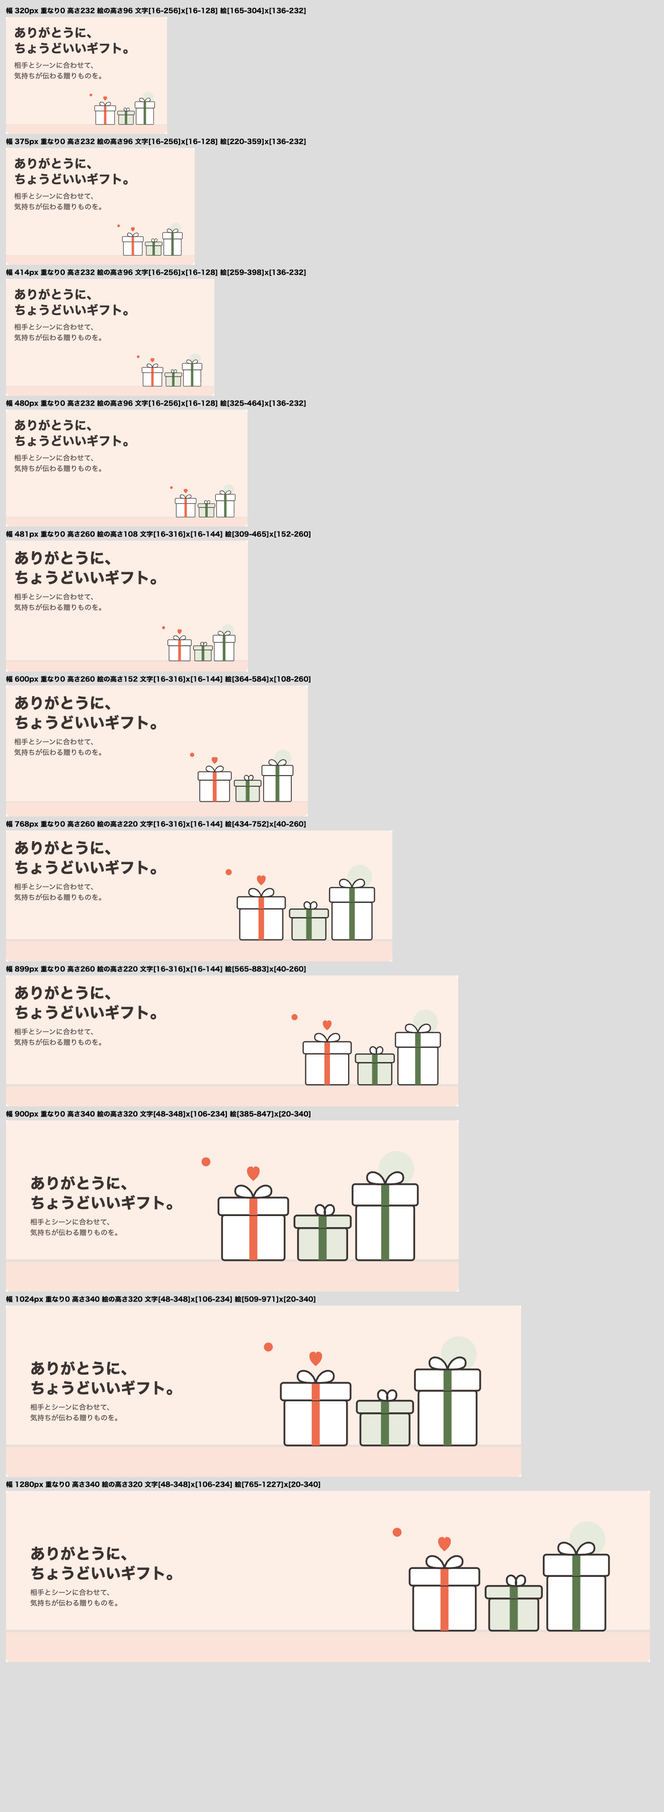
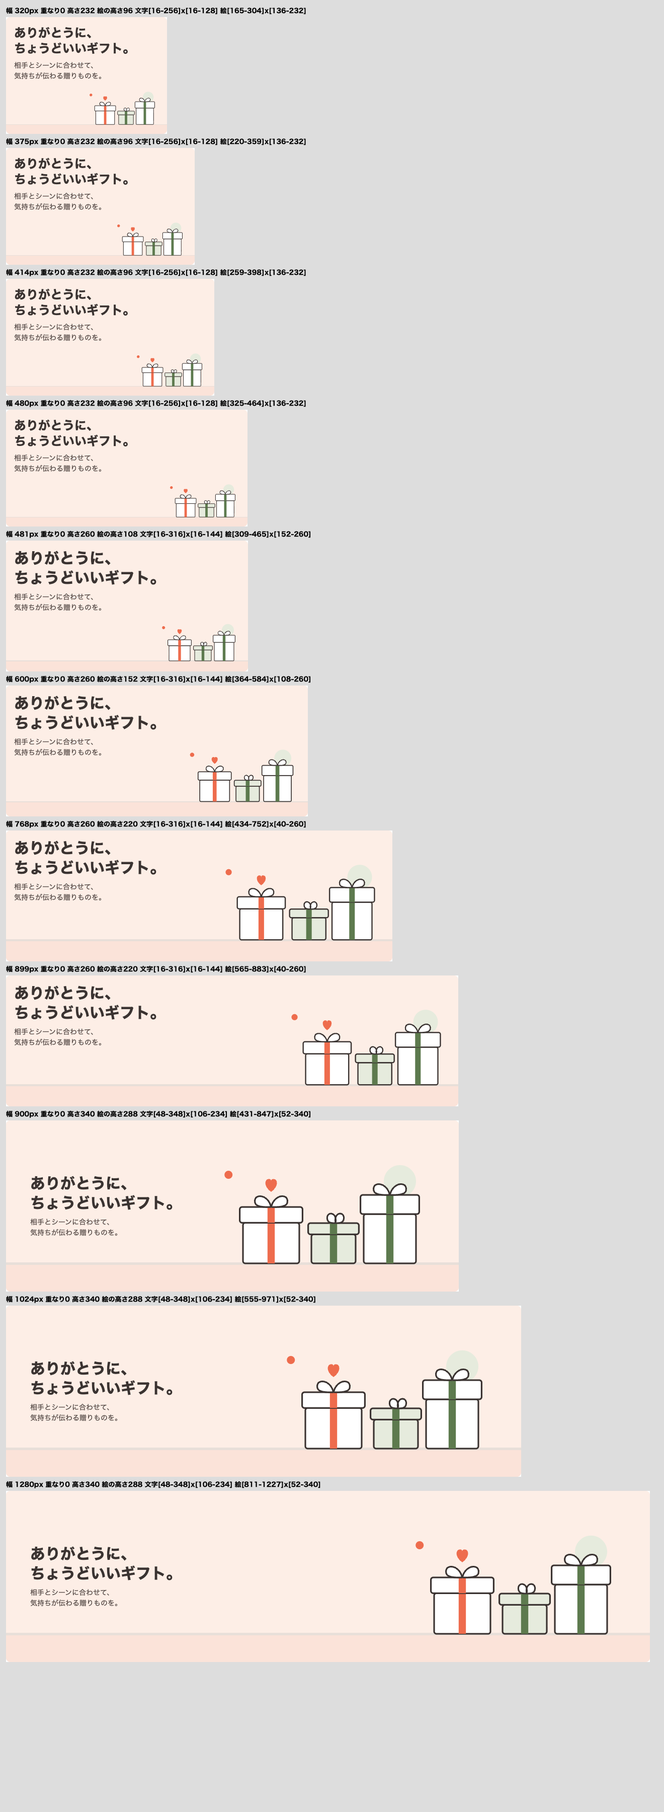
docs: 900px 以上のヒーローの絵を 288px（幅 416px）に確定、design/ の hero.css・check.png を差し替え（追記 27）

Changed region(s): [[0.3106, 0.6222, 0.6523, 0.7156], [0.4038, 0.7467, 0.7455, 0.8089], [0.6212, 0.84, 0.9318, 0.9022]]

diff --git a/02_プロジェクト/giftia-ui-renewal/design/hero.css b/02_プロジェクト/giftia-ui-renewal/design/hero.css
@@ -1,5 +1,5 @@
 /* 背景と床の帯は CSS、絵は hero.svg（右下）。見出しの大きさは今の top.module.css（30px・行間 1.3、480px 以下は 24px）のまま */
-.hero{--ah:320px;position:relative;height:340px;overflow:hidden;border-radius:8px;background:linear-gradient(to top,#fbe3d9 calc(var(--ah)*.183),#e8dfd9 calc(var(--ah)*.183) calc(var(--ah)*.2),#fdeee6 calc(var(--ah)*.2))}
+.hero{--ah:288px;position:relative;height:340px;overflow:hidden;border-radius:8px;background:linear-gradient(to top,#fbe3d9 calc(var(--ah)*.183),#e8dfd9 calc(var(--ah)*.183) calc(var(--ah)*.2),#fdeee6 calc(var(--ah)*.2))}
 .hero img{position:absolute;right:max(24px,4vw);bottom:0;height:var(--ah);width:auto}
 .hero .txt{position:absolute;left:48px;top:50%;transform:translateY(-50%);max-width:calc(100% - var(--ah)*1.445 - 48px - max(24px,4vw) - 24px)}
 .hero h1{margin:0 0 8px;font-size:30px;line-height:1.3;color:#3a3331}

diff --git a/02_プロジェクト/giftia-ui-renewal/仕様.md b/02_プロジェクト/giftia-ui-renewal/仕様.md
@@ -25,7 +25,7 @@ R-01（共同購入者）の導線から書く（ADR-002）。決定の根拠は
 | SP-17 | F-22 | 詳細を開く | 詳細の欄 | 設計.md 参照（D-29・D-35） | なし（読み取りのみ） | **贈った人の声**（第2弾 P。欄の名前は決定 2026-11-13）。選び方: その商品の `reviews` のうち、`rating` が4以上、`comment` が NULL でなく空白だけでもない行を、`posted_at` の新しい順（同じ日は本文の文字の順）に並べ、本文が一字一句同じ行は1件にまとめ、最大2件。0件なら欄ごと出さない（見出しも出さない）。出すのは本文（「」で囲む）と星（「★5」）だけ。投稿した人の ID・名前・投稿日は出さない（N-13）。長い文は切らずに全文を出す（PR で PM が確かめる）。架空データには商品とシーンが合わない声がある（例: ハンドクリームに「出産祝いに」）が、今回は除かない（ADR-008）。置き場所は詳細の欄の決め手（SP-16）のすぐ下 |
 | SP-18 | F-24, F-25, F-26 | 詳細・お気に入り・カートで「カートに入れる」「注文へ進む」を押す。行の商品名を押す | 詳細の欄 / お気に入りのパネル / カートのパネル | 設計.md 参照（D-29・D-30・D-31） | ブラウザ内の保存だけ | **買う手前の行き止まりをなくす**（第2弾 U-12・14・15）。①詳細（U-14）: 在庫0（`status`＝`out_of_stock`）の商品は、「カートに入れる」を「在庫なし」の文字にして押せなくする。②お気に入りのパネル（U-12）: 各行に「カートに入れる」（SP-14 の追加と同じ動き。通知も同じ）を置く。在庫0は①と同じく押せない。「この商品は見つかりません」（404）の行には置かない。行の商品名を押すと、パネルを閉じて検索結果の詳細の欄でその商品を開く（`/search?product=…`。SP-09 のおすすめと同じ開き方）。③カートのパネル（U-15）: 買える商品（販売終了・在庫なし・読めない商品を除いた商品）が0件のとき、「注文へ進む」を押せなくし、ボタンのすぐ上に「買える商品がありません」と出す（空のカートも0件）。1件以上なら今どおり押せて「デモのため、注文はできません」。各行に小さい画像（カテゴリー共通イラスト「イメージ」）と、商品名から②と同じ開き方で詳細を開く道を置く（販売終了の行は商品が無いので画像も道も置かない）。パネルの下に「買い物を続ける」を置き、押すとパネルを閉じて検索結果（`/search`）へ移る。すでに検索結果にいるときは閉じるだけで、条件は変えない。どのボタンも縦横44px 以上（N-12） |
 | SP-19 | F-28 | ブラウザのタブを見る。共有リンクを LINE などに貼る | — | なし（固定のページ情報） | なし | **アイコンと OGP**（第2弾 U-21）。サイトのアイコン（favicon）を全ページに置く（絵柄は Mi-rin の案 A「オレンジの贈り物」。PM 11/14「アイコンは案Aで」）。プレビュー（OGP）はページごとに画像・タイトル・説明を出し分け、画像は2枚（PM 11/14「1で。分けることで進めて」。絵はどちらもヒーローの案 A。PM 11/14「案Aがいいですが、文字と絵が被ってるところが気になります」）。①共有ページ（`/s/…`）: 画像は「どれがいいと思う？／いいねで教えて。」の固定の1枚、説明「どれがいいと思う？いいねで教えて。」、タイトル「Giftia の贈りもの候補」（今どおり）。商品名・理由・価格は出さない（N-15）。noindex は今どおり（N-07）。②トップとその他のページ: 画像は今のサイトの見出し「ありがとうに、ちょうどいいギフト。」と下の行「相手とシーンに合わせて、」／「気持ちが伝わる贈りものを。」（ヒーローと同じ2行。PM 11/15「2段に全て統一した方が綺麗じゃない？」）の固定の1枚、タイトル「Giftia」（今どおり）、説明は見出しと下の行をつないだ文（今の「ギフトを探して、仲間に共有リンクで送る」から変える。PM 11/15「今のサイトの見出しにしよう」）。**ロゴ（アイコン A ＋「Giftia」の文字。PM 11/15「アイコンをロゴにしよう。ヘッダーにも同じロゴを使おう」）**を、①②の画像の同じ場所（左下の帯）と、ヘッダーのロゴ（SP-08）に使う。ヘッダーのロゴの大きさは Mi-rin の仕上げ（設計 D-36・D-37（ファイルは `design/`））による。説明文はいいね（SP-28）と同じ版で公開する |
-| SP-20 | F-29 | トップと検索結果を見る | 共通 | なし | なし | **見た目の直し**（第2弾 T。CSS と画像だけで、動きは変えない）。T1 ヒーロー: ぼかした丸や点の飾りをやめ、画像1枚。画像は自作の案 A（並ぶ贈り物。Mi-rin 作。外の素材は使わない。T-3・G1。PM 11/14「案Aがいいですが、文字と絵が被ってるところが気になります」）。**どの幅（375px〜PC）でも、ヒーローの見出しの文字と絵が重ならない**（G1）。見出しの文は今のサイトの文のまま変えない（「ありがとうに、ちょうどいいギフト。」の2行と下の行「相手とシーンに合わせて、気持ちが伝わる贈りものを。」。確定。PM 11/15「今のサイトの見出しにしよう」）。スマホの幅のヒーローは低い案（確定。PM 11/15「低い案で。タブレットはおすすめ通りに調整して」）: 480px 以下は高さ約 232px で絵を小さく右下に置き、文字と絵は重ねない。481〜899px は絵の大きさを幅に合わせて整える。900px 以上は変えない（値は設計 D-37）。768px で文字の下にできる空きは今のままでよい（確定。PM 11/15「やり切るので、落とさないです。速さはおっけー。をの部分は改行で読みやすく。768pxはおっけー。」）（その後 PM 11/15「低い案で。タブレットはおすすめ通りに調整して」で、481〜899px は絵を幅に合わせて大きくした。768px で絵の高さ 220px）。下の行は、どの幅でも「相手とシーンに合わせて、」／「気持ちが伝わる贈りものを。」の2行にする（確定。PM 11/15「2段に全て統一した方が綺麗じゃない？」。前の決定「480px 以下だけ2行、481px 以上は1行」を置き換え）。文字の表記は今のサイトのまま（やり方は 設計 D-37（ファイルは `design/`） による）。T2 シーン・カテゴリーのタイル: 枠線を外し、白い面にする。T3 オレンジ（強調の色）: 選択中とロゴだけに使う。例外として「カートに入れる」「共有リストを作る」はオレンジ（T-2）。T4 カテゴリーのアイコン: 焦げ茶にして、文字と横に並べる。T5 商品カードの画像: 丸＋アイコンをやめ、色の面にする。「イメージ」の表示は小さく残す（OPEN-06）。T6 文字: 見出しは太く、価格は大きく、補足は小さく灰色。T5・T6 はトップのおすすめのカードと、検索結果のカード（R-01・R-02）に同じように当てる（T-4）。色は1か所の設定から使い（N-14）、文字と背景の差は WCAG AA（N-12）を守る |
+| SP-20 | F-29 | トップと検索結果を見る | 共通 | なし | なし | **見た目の直し**（第2弾 T。CSS と画像だけで、動きは変えない）。T1 ヒーロー: ぼかした丸や点の飾りをやめ、画像1枚。画像は自作の案 A（並ぶ贈り物。Mi-rin 作。外の素材は使わない。T-3・G1。PM 11/14「案Aがいいですが、文字と絵が被ってるところが気になります」）。**どの幅（375px〜PC）でも、ヒーローの見出しの文字と絵が重ならない**（G1）。見出しの文は今のサイトの文のまま変えない（「ありがとうに、ちょうどいいギフト。」の2行と下の行「相手とシーンに合わせて、気持ちが伝わる贈りものを。」。確定。PM 11/15「今のサイトの見出しにしよう」）。スマホの幅のヒーローは低い案（確定。PM 11/15「低い案で。タブレットはおすすめ通りに調整して」）: 480px 以下は高さ約 232px で絵を小さく右下に置き、文字と絵は重ねない。481〜899px は絵の大きさを幅に合わせて整える。900px 以上はヒーローの高さ 340px・文字はそのままで、絵を小さく（高さ 288px）する（確定。PM 11/15「サイズおすすめで」）（値は設計 D-37）。768px で文字の下にできる空きは今のままでよい（確定。PM 11/15「やり切るので、落とさないです。速さはおっけー。をの部分は改行で読みやすく。768pxはおっけー。」）（その後 PM 11/15「低い案で。タブレットはおすすめ通りに調整して」で、481〜899px は絵を幅に合わせて大きくした。768px で絵の高さ 220px）。下の行は、どの幅でも「相手とシーンに合わせて、」／「気持ちが伝わる贈りものを。」の2行にする（確定。PM 11/15「2段に全て統一した方が綺麗じゃない？」。前の決定「480px 以下だけ2行、481px 以上は1行」を置き換え）。文字の表記は今のサイトのまま（やり方は 設計 D-37（ファイルは `design/`） による）。T2 シーン・カテゴリーのタイル: 枠線を外し、白い面にする。T3 オレンジ（強調の色）: 選択中とロゴだけに使う。例外として「カートに入れる」「共有リストを作る」はオレンジ（T-2）。T4 カテゴリーのアイコン: 焦げ茶にして、文字と横に並べる。T5 商品カードの画像: 丸＋アイコンをやめ、色の面にする。「イメージ」の表示は小さく残す（OPEN-06）。T6 文字: 見出しは太く、価格は大きく、補足は小さく灰色。T5・T6 はトップのおすすめのカードと、検索結果のカード（R-01・R-02）に同じように当てる（T-4）。色は1か所の設定から使い（N-14）、文字と背景の差は WCAG AA（N-12）を守る |
 | SP-21 | F-39 | シーンなしの検索結果で並びを選ぶ | 結果あり | 設計.md 参照（D-28 の `sort`） | なし（読み取りのみ） | **並び替え**（第2弾 A1）。結果の見出しの右に、並びを選ぶ部品（おすすめ／安い順／評価順／早く届く順）。初期値は「おすすめ」（今の SP-11 の並び）。安い順＝価格の低い順、評価順＝評価の高い順（評価の無い商品は最後）、早く届く順＝配送日数の少ない順（値の無い商品は最後）。同じ値どうしの順は設計 D-43 の表のとおり（安い順・早く届く順は評価の高い順（評価なしは後ろ）→ 商品ID順、評価順はレビュー件数の多い順 → 商品ID順、おすすめは商品ID順）。選んだ並びは URL に持ち（「おすすめ」のときは付けない）、変えたら同じ条件のまま1ページ目に戻る。ページ送りは選んだ並びのまま。R-01 の10件（SP-15）には出さない |
 | SP-22 | F-40 | 詳細を開く。「最近見た商品」を見る | — | なし（ブラウザ内保存） | ブラウザ内の保存だけ | **最近見た商品**（第2弾 A2）。詳細の欄に商品が出たとき（404・失敗のときは入れない）、その商品IDを先頭に入れる。同じ商品は1件にまとめて先頭に移す。最大6件で、7件目を入れたら一番古いものを消す。検索結果の画面の下（ページ番号の下）に「最近見た商品」として新しい順に横に並べ、押すと詳細の欄を開く。0件・ブラウザに保存できないときは欄を出さない 第2弾の細部（確定（PM 11/15「1-3おすすめ通りで。4は読めた分だけ出す。5.つける」））: 1件のカードは画像（「イメージ」）・商品名（2行まで）・価格（税込）・届く日（目安。SP-26）。ハートと「カートに入れる」は付けず、カード全体が詳細を開くリンク（縦横44px以上）。横に並べる帯（カード幅140px、帯の中だけ横に動く）。置き場所は R-02 はページ番号の下、R-01 は10件の候補の下。在庫なしは価格の代わりに「在庫なし」。見つからない商品は出さず、保存からも消す。読み込めなかった商品は出さず、読めた分だけ出す。全部読めなかったときだけ「最近見た商品を読み込めませんでした」と「もう一度」（取り方は設計 D-47）。 |
 | SP-23 | F-41 | お気に入りのパネルで、比べたい商品を選んで「比べる」を押す | お気に入りのパネル | なし（詳細 API を使う） | なし | **お気に入りで比べる**（第2弾 A3）。各行に「比べる」の選択（チェック）を置く。2〜3件を選ぶと「比べる」ボタンが押せ、パネルの中に価格（税込）・届く日（目安。SP-26）・ラッピング・評価（件数）を商品ごとの列で並べる。3件選んでいる間は4件目を選べない。値の無い項目は空欄にせず「—」。一覧に置く常設の比較トレイは作らない（A-1） 第2弾の細部（確定（PM 11/15「1-3おすすめ通りで。4は読めた分だけ出す。5.つける」））: 選んでいる間は「比べる（{n}件選択中）」。表はパネルの中で一覧から替わる（重ねない）。列＝商品（見出しに画像・商品名（押すと詳細）・在庫なしの印）、行＝価格（税込）／届く日（目安）／ラッピング（あり・なし・—）／評価（「4.7（120件）」）。375px で収まり、収まらない幅は表の中だけ横に動く。表の上の「← お気に入りにもどる」か Esc で一覧に戻り、「比べる」ボタンへフォーカスが戻る（選択は残る）。パネルを閉じたら選択は全部外れる。表の中ではお気に入りを外せない。一覧で外した商品が選択中なら選択も外れ、2件未満で「比べる」は押せない。表を開いている間に別のタブでお気に入りが外れたら、その列を消し、2件未満なら一覧に戻って「比べる商品が2件未満になりました」。見つからない商品は表から除き「見つからない商品は比べられません」（設計 D-47）。各列の下に「カートに入れる」を付ける（PM 11/15「5.つける」）。押すとカートに入り、押した後の表示は詳細の「カートに入れる」と同じ（SP-14・SP-18）。販売終了・在庫なしの列は押せない（在庫なしは「在庫なし」）。ボタンは列の幅いっぱい、文字は 12px で 2 行に折ってよい（縦 44px 以上は保つ。375px の 3 列で 1 列が約 90px のため）（Mi-rin の確認 11/15。⑤の決定の細部）。 |
@@ -258,6 +258,7 @@ stateDiagram-v2
 | 2026-11-15 | SP-29（要件 F-38） | PC の右の列は上＝共有リスト、下＝詳細を縦に積む（案） | 「共有リスト（N件）／詳細」のタブで切り替える。縦積みは不採用。タブの件数が見えることで F-38 を満たす。タブの細かい動き 4 点は案 | 画面の並べ方（見本 A・B・C を比べて C） | 確定（PM 11/15「PC: C で」、god 追記 24）。細かい動きは案（PM の確認待ち） |
 | 2026-11-15 | SP-20・SP-29 | 899px 以下のヒーローは高い（下の行 2 行に合わせた）。PC のタブは最初に共有リストを出すことがある | ヒーローは低い案（480px 以下は約 232px、絵は小さく右下。481〜899px は絵を整える）。タブは「基本は詳細」の 5 点（案）と、カードを押す前の詳細タブ A／B（未決） | 最初の画面を取りすぎる。購入に結びつく詳細を基本にする | ヒーローは確定（PM 11/15「低い案で。タブレットはおすすめ通りに調整して」）。タブは案（PM の方針 11/15、god 追記 25） |
 | 2026-11-15 | SP-29 | PC のタブの細かい動き ①〜⑤ は案、カードを押す前の詳細タブは A／B の未決 | ①〜⑤ を確定。カードを押す前の詳細タブは A（「カードを押すと、ここに詳細が出ます」）。B（1 位の詳細を最初から）は不採用 | B は計測の③「詳細を開く」を汚す | 確定（PM 11/15「Aで。1-4もおっけーです」「1-5もおっけーです」、god 追記 26） |
+| 2026-11-15 | SP-20 | 900px 以上のヒーローの絵は高さ 320px（幅 462px） | 高さ 288px（幅 416px）。ヒーローの高さ 340px・文字・899px 以下は変えない（設計 D-37） | 絵の大きさの見直し（Mi-rin のおすすめ） | 確定（PM 11/15「サイズおすすめで」、god 追記 27） |
 | 2026-11-14 | SP-28 | いいねの取り消しは「案」（要件 F-34・要求 AC-20 は「もう一度は押せない」） | もう一度押すと取り消す（数は 0 を下回らない）に 3 文書でそろえた | 指示書 4 章 L と設計 D-39 の `on:false`。テスト設計「仕様に書かれていないこと」第2弾-2 | god 追記 13（指示書 4 章 L の決定に合わせる） |
 | 2026-11-14 | SP-21・SP-25 | 同じ値どうしは「おすすめ順（案）」「商品ID順（案）」 | 設計 D-43・D-42 の次の基準にそろえた | 仕様と設計の食い違い（テスト設計 第2弾-3） | god 追記 13 |
 | 2026-11-14 | SP-13・SP-23 | 決定 2026-11-13「比較トレイは作らない」 | お気に入りの中だけで2〜3件を比べる（A3）。一覧に置く常設の比較トレイは作らないまま | A3 はお気に入りの中だけの機能 | A-1 確定（PM 11/14） |

diff --git a/02_プロジェクト/giftia-ui-renewal/設計.md b/02_プロジェクト/giftia-ui-renewal/設計.md
@@ -255,8 +255,8 @@ LIMIT 2;
 
 - 色・文字の大きさ・太さは、今の色の変数（N-14）に足して 1 か所で直す。オレンジは「選択中」「ロゴ」「カートに入れる」「共有リストを作る」だけ（T3・T-2）。
 - ヒーロー（T1）は自作の案 A（並ぶ贈り物。PM 11/14「案Aがいいですが、文字と絵が被ってるところが気になります」。T-3・G1）の画像 1 枚にし、ぼかした丸や点の飾りの CSS をやめる。仕上げは `design/hero.svg`（絵だけ。背景透明、viewBox 520×360、約 2KB）と `design/hero.css`（Mi-rin 作。値の正はこの CSS）。値:
-  - 900px 以上: ヒーローの高さ 340px。絵は高さ 320px（幅 462px）を右下（`right: max(24px, 4vw); bottom: 0`）。文字は左 48px・縦の中央。文字の最大幅は `calc(100% - 絵の高さ×1.445 - 48px - max(24px,4vw) - 24px)`（1024px・1280px で約 348px）。
-  - 899px 以下: 低い案（確定。PM 11/15「低い案で。タブレットはおすすめ通りに調整して」。高いヒーローは最初の画面を取りすぎるため）。480px 以下はヒーローの高さ約 232px、絵を小さくして右下に置き、文字と絵は重ねない。481〜899px（タブレット）は、絵が小さく寄りすぎないよう幅に合わせて絵の大きさを整える。900px 以上は変えない。値（Mi-rin の確定版 `design/hero.css`）: 480px 以下はヒーローの高さ 232px、文字は上（左 16px・上 16px、見出し 24px）、絵は高さ 96px（幅 約 139px）を右下（右 16px・下 0）。481〜899px は高さ 260px、文字は上（左 16px・上 16px、最大幅 `calc(100% - 32px)`、見出し 30px）、絵の高さは `--ah: clamp(108px, calc((100vw - 380px) / 1.444), 220px)`（481px で 108px、約 700px 以上で 220px。768px で 220px）を右下（右 16px・下 0）。この式で絵の左端はいつも文字の右端より 16px 以上右にあり重ならない。境目: 480→481px は高さ 232→260px・絵 96→108px、899→900px は 2 段組みに替わり高さ 260→340px・絵 220→320px。
+  - 900px 以上: ヒーローの高さ 340px。絵は高さ 288px（幅 416px。確定 PM 11/15「サイズおすすめで」。前は 320px・幅 462px。床の帯は絵に連動して約 53px、床の線は帯の上端から約 5px）を右下（`right: max(24px, 4vw); bottom: 0`）。文字は左 48px・縦の中央。文字の最大幅は `calc(100% - 絵の高さ×1.445 - 48px - max(24px,4vw) - 24px)`（文字の実測の幅は 1024px・1280px とも 300px。Mi-rin の確定版の README）。
+  - 899px 以下: 低い案（確定。PM 11/15「低い案で。タブレットはおすすめ通りに調整して」。高いヒーローは最初の画面を取りすぎるため）。480px 以下はヒーローの高さ約 232px、絵を小さくして右下に置き、文字と絵は重ねない。481〜899px（タブレット）は、絵が小さく寄りすぎないよう幅に合わせて絵の大きさを整える。900px 以上は変えない。値（Mi-rin の確定版 `design/hero.css`）: 480px 以下はヒーローの高さ 232px、文字は上（左 16px・上 16px、見出し 24px）、絵は高さ 96px（幅 約 139px）を右下（右 16px・下 0）。481〜899px は高さ 260px、文字は上（左 16px・上 16px、最大幅 `calc(100% - 32px)`、見出し 30px）、絵の高さは `--ah: clamp(108px, calc((100vw - 380px) / 1.444), 220px)`（481px で 108px、約 700px 以上で 220px。768px で 220px）を右下（右 16px・下 0）。この式で絵の左端はいつも文字の右端より 16px 以上右にあり重ならない。境目: 480→481px は高さ 232→260px・絵 96→108px、899→900px は 2 段組みに替わり高さ 260→340px・絵 220→288px。
   - 見出しは今の `top.module.css` のまま（30px・行間 1.3・下の余白 8px、480px 以下は 24px）。下の行は 14px。色は見出し `#3a3331`、下の行 `#5c514d`。背景は `#fdeee6`、床の帯は絵の高さの 20%（`--ah` で連動、境の線 `#e8dfd9`、帯 `#fbe3d9`）。角の丸み 8px。
   - 絵は常に右下に置き、`object-position` は使わない（切り抜かない）。
   - 重ならないことは `design/check.png`（320・375・414・480・481・600・768・899・900・1024・1280px の 11 幅に本当の見出しを実寸で置いた図。全部 文字枠と絵の枠の重なり 0・枠外なし）で確かめた。**どの幅（375px〜PC）でも見出しの文字と絵が重ならない**（G1）。見出しは今のサイトの文のまま（「ありがとうに、ちょうどいいギフト。」の 2 行＋下の行。確定。PM 11/15）で、重ならないことはこの文で確かめる。768px の空きは今のままで確定（PM 11/15）（その後 PM 11/15「低い案で。タブレットはおすすめ通りに調整して」で、481〜899px は絵を幅に合わせて大きくした。768px で絵の高さ 220px）。下の行はどの幅でも「、」の後で 2 行（確定。PM 11/15「2段に全て統一した方が綺麗じゃない？」。前の「480px 以下だけ 2 行」を置き換え）。書き方: `<p><span>相手とシーンに合わせて、</span><span>気持ちが伝わる贈りものを。</span></p>` とし、`span { display: block }`（幅による切り替えはしない。各行 13 文字・約 182px なので 320px でも折り返さない）。900px 以上は 340px のまま 2 行で収まる。`design/check.png` は 2 行で作り直した（全幅で重なり 0）。`<br>` は使わない（読み上げと広い画面で不要な改行になるため）。実機と Safari では未確認（評価までに NF-49 で確かめる）。
